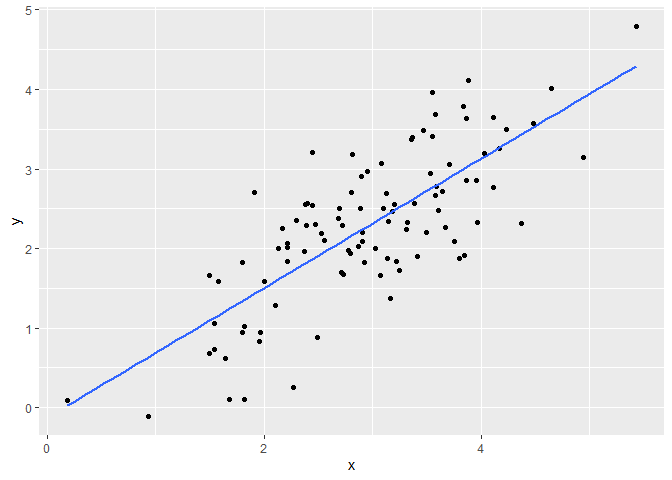
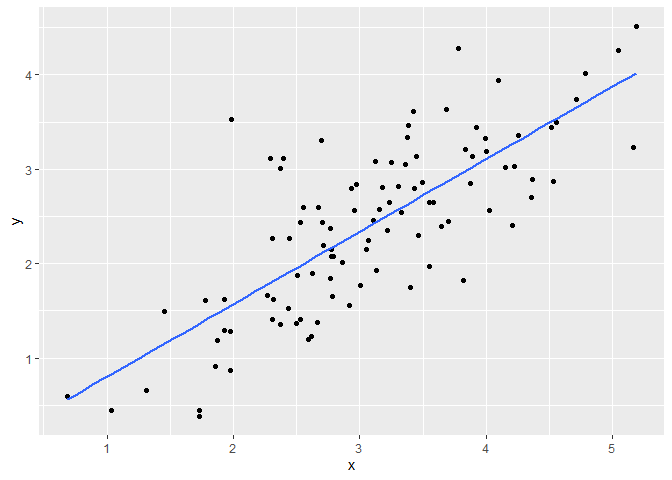
update rpearson

diff --git a/README.md b/README.md
@@ -1126,7 +1126,13 @@ be linear correlated with a normal distribution, using pearson
 correlation coefficient as a parameter.
 
 ``` r
-df <- rpearson(n = 100, p_sim = .8, mean = 3)
+set.seed(123);df <- rpearson(n = 100, pearson = .8, mean = 3)
+#> 100 observations of x and y were simulated with: 
+#>  - Mean = 3 
+#>  - SD = 1 
+#>  - Linear correlation coefficient = 0.8 
+#>  - Simulation tolerance =  0.1 
+#>  - Real linear correlation coefficient = 0.7709791
 
 df %>% 
   ggplot(aes(x,y))+
